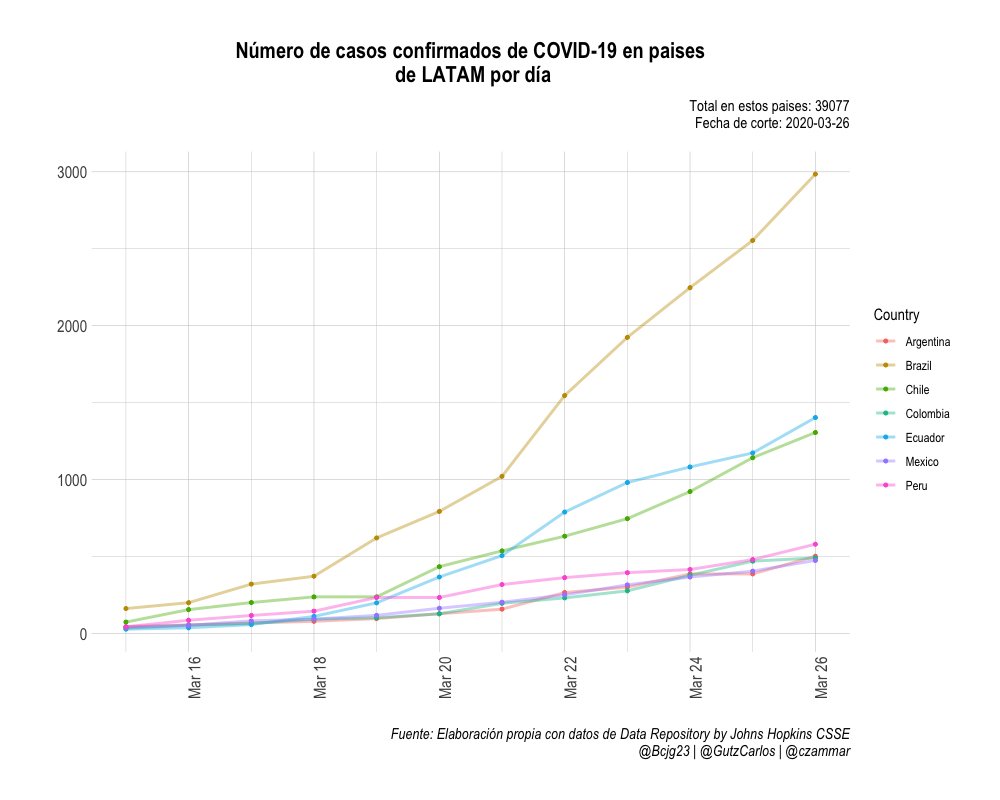
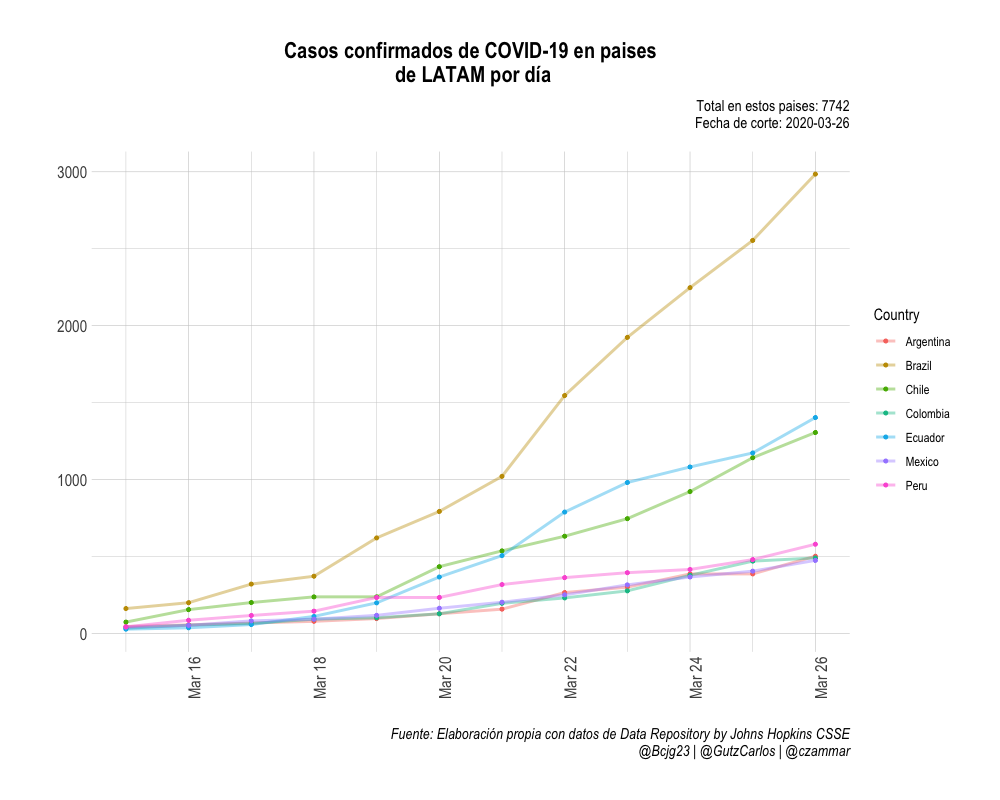
actualizacion LATAM e Internacional

Changed region(s): [[0.217, 0.0312, 0.713, 0.0938], [0.682, 0.125, 0.868, 0.1562]]

diff --git a/README.md b/README.md
@@ -37,6 +37,8 @@ Siguiendo las propuestas de varios actores de la sociedad civil, ponemos a dispo
 
 ![](imagenes/08_casos_acumulados_latam.png)
 
+![](imagenes/09_casos_acumulados_international.png)
+
 # 4. Errores de fuente
 
 ## Tabla de positivos
